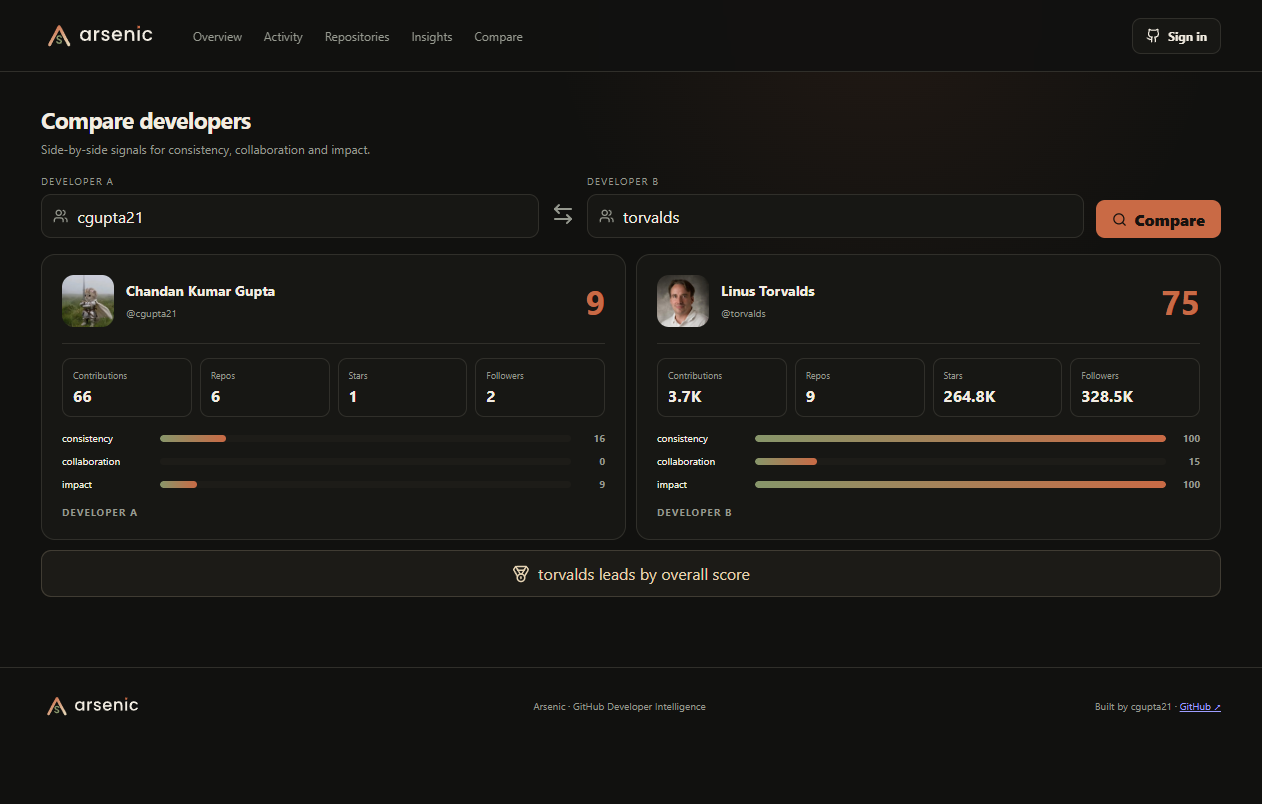
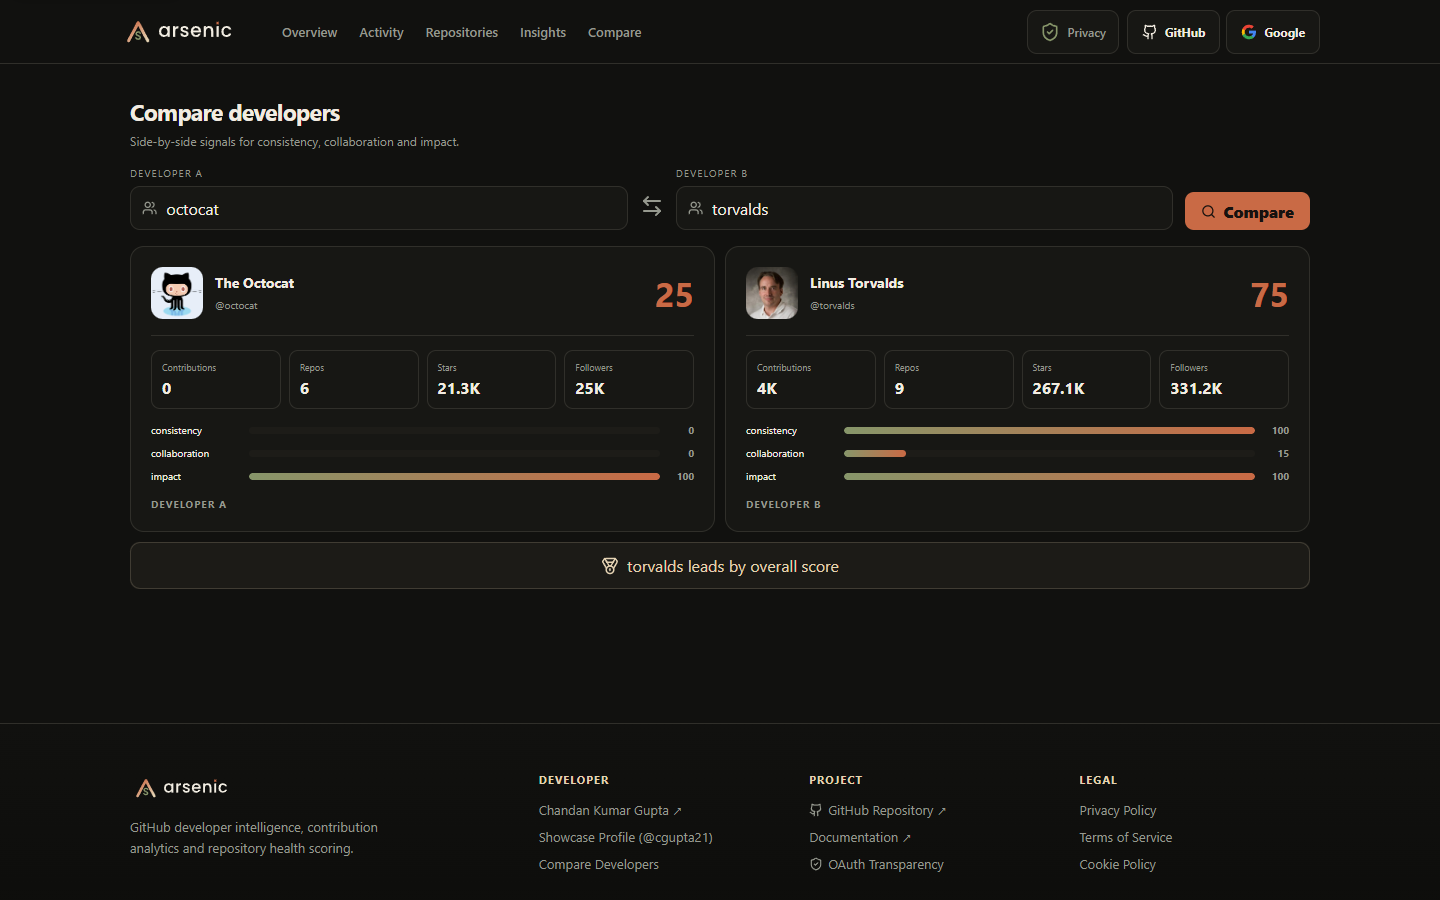
docs: replace outdated screenshots with current desktop captures

diff --git a/README.md b/README.md
@@ -41,7 +41,7 @@
 ## Table of Contents
 
 1. [Problem Statement](#problem-statement)
-2. [Interface Previews](#interface-previews)
+2. [Screenshots](#screenshots)
 3. [Verified Features & Capabilities](#verified-features--capabilities)
    - [Developer Intelligence Overview](#1-developer-intelligence-overview)
    - [Deterministic Scoring Engine](#2-deterministic-scoring-engine)
@@ -83,11 +83,11 @@ Standard GitHub profiles highlight pinned repositories and basic contribution gr
 
 ---
 
-## Interface Previews
+## Screenshots
 
-All previews below are genuine captures from Arsenic's running application:
+Genuine captures from Arsenic's deployed production interface (1440 × 900 desktop viewport):
 
-### Landing Page (Desktop)
+### Landing Page
 <p align="center">
   <img src="docs/screenshots/landing-page.png" alt="Arsenic Desktop Landing Page" width="100%" />
 </p>
@@ -97,18 +97,9 @@ All previews below are genuine captures from Arsenic's running application:
   <img src="docs/screenshots/dashboard-overview.png" alt="Developer Intelligence Dashboard Overview" width="100%" />
 </p>
 
-### Side-by-Side Comparison & Contribution Heatmap
+### Side-by-Side Developer Comparison
 <p align="center">
-  <img src="docs/screenshots/developer-comparison.png" alt="Side-by-Side Developer Comparison" width="49%" />
-  &nbsp;
-  <img src="docs/screenshots/contribution-heatmap.png" alt="1-Year Contribution Heatmap and Commit Timing Patterns" width="49%" />
-</p>
-
-### Responsive Mobile Interface & Exportable Share Card
-<p align="center">
-  <img src="docs/screenshots/mobile-interface.png" alt="Responsive Mobile Interface" width="32%" />
-  &nbsp;&nbsp;&nbsp;&nbsp;
-  <img src="docs/screenshots/share-card.png" alt="High-Resolution Developer Share Card (PNG and PDF)" width="62%" />
+  <img src="docs/screenshots/developer-comparison.png" alt="Side-by-Side Developer Comparison" width="100%" />
 </p>
 
 ---
